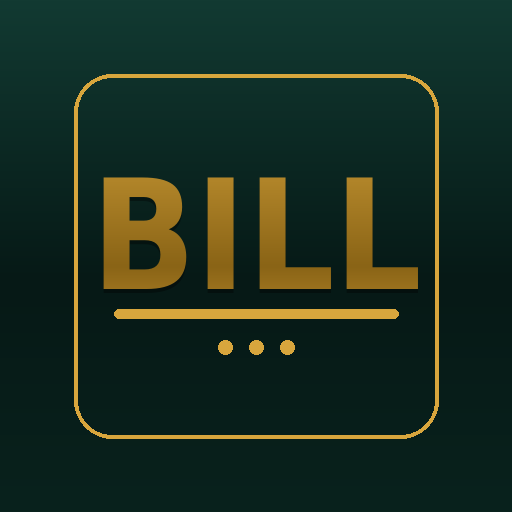
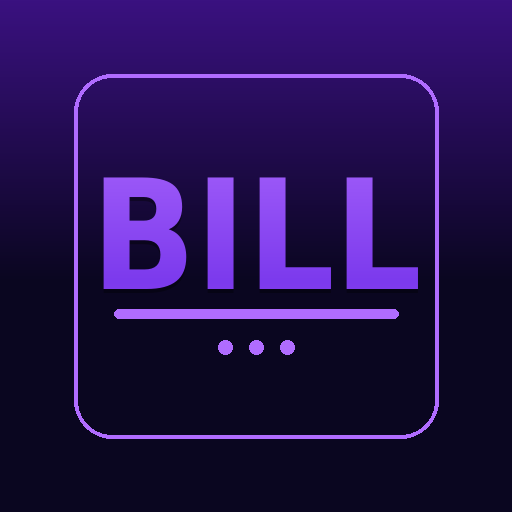
Add files via upload

diff --git a/index.html b/index.html
@@ -2,7 +2,20 @@
 <!--
 =============================================================
   ANKUSH KIRANA — Billing PWA
-  Version : v5.1  (02-09-2026)
+  Version : v6.0  (02-09-2026)
+  Author  : Ankush New Vision
+-------------------------------------------------------------
+  FILES NEEDED IN THE REPO (same folder)
+    index.html  manifest.json  sw.js  icon-192.png  icon-512.png
+-------------------------------------------------------------
+  CHANGELOG
+  v6.0 - New look across the whole app: violet on deep indigo.
+         Billing, Products, Customers, Purchase, Poster, Dashboard,
+         nav, sheets, dropdowns, toasts — all retuned.
+         Kept on purpose: the green WhatsApp button, the red delete,
+         the green "cheapest rate" marker, and the poster themes
+         (those go to customers, not into the app's look).
+  v5.1  (02-09-2026)
   Author  : Ankush New Vision
 -------------------------------------------------------------
   FILES NEEDED IN THE REPO (same folder)
@@ -197,7 +210,7 @@
 <head>
 <meta charset="utf-8">
 <meta name="viewport" content="width=device-width,initial-scale=1,viewport-fit=cover">
-<meta name="theme-color" content="#08201C">
+<meta name="theme-color" content="#150B33">
 <title>BILL — Ankush Kirana</title>
 <link rel="preconnect" href="https://fonts.googleapis.com">
 <link rel="preconnect" href="https://fonts.gstatic.com" crossorigin>
@@ -212,10 +225,10 @@
 <style>
 :root{
   color-scheme:dark;
-  --ink:#08201C; --ink2:#0C2A24; --ink3:#113831;
-  --brass:#D8A63D; --brass-lt:#F7E2A6; --brass-dk:#8A6416;
-  --text:#EAF4F0; --dim:#8FB0A7;
-  --line:rgba(216,166,61,.22);
+  --ink:#150B33; --ink2:#1A0F3C; --ink3:#221450;
+  --brass:#B06CFF; --brass-lt:#DCC9FF; --brass-dk:#7C3AED;
+  --text:#F2ECFF; --dim:#9C8FC7;
+  --line:rgba(176,108,255,.26);
   --danger:#E2705A;
   --f-disp:'Khand',"Segoe UI",system-ui,sans-serif;
   --f-body:'Mukta',system-ui,-apple-system,sans-serif;
@@ -224,8 +237,8 @@
 html,body{margin:0;padding:0}
 body{
   background:
-    radial-gradient(900px 400px at 50% -10%, #14403709, transparent),
-    linear-gradient(180deg,#08201C,#061916 60%,#08201C);
+    radial-gradient(900px 420px at 50% -10%, #7C3AED22, transparent),
+    linear-gradient(180deg,#150B33,#0A0620 60%,#0A0620);
   color:var(--text);font-family:var(--f-body);font-size:15px;
   min-height:100dvh;padding-bottom:78px;
 }
@@ -236,14 +249,14 @@ input,select,textarea,button{font-family:var(--f-body);font-size:15px}
 /* ---------- header ---------- */
 header{
   position:sticky;top:0;z-index:20;padding:10px 12px 12px;
-  background:linear-gradient(180deg,#0A2620 70%,rgba(8,32,28,.86));
+  background:linear-gradient(180deg,#150B33 70%,rgba(21,11,51,.86));
   backdrop-filter:blur(8px);border-bottom:1px solid var(--line);
 }
 .plate{
   display:flex;align-items:center;gap:10px;padding:9px 12px;border-radius:12px;
-  background:linear-gradient(180deg,#F7E2A6 0%,#D8A63D 16%,#A6791D 52%,#D8A63D 76%,#F2D68F 100%);
-  box-shadow:inset 0 1px 0 rgba(255,255,255,.8),inset 0 -2px 3px rgba(0,0,0,.35),0 6px 16px rgba(0,0,0,.4);
-  color:#2A1D02;position:relative;overflow:hidden;
+  background:linear-gradient(165deg,#4C1D95 0%,#6D28D9 45%,#3A1180 100%);
+  box-shadow:inset 0 1px 0 rgba(255,255,255,.22),0 8px 20px rgba(0,0,0,.45);
+  color:#FFFFFF;position:relative;overflow:hidden;border:1px solid rgba(176,108,255,.5);
 }
 .plate::after{
   content:"";position:absolute;inset:0;transform:translateX(-120%) skewX(-18deg);
@@ -253,7 +266,7 @@ header{
 @keyframes sheen{0%,72%{transform:translateX(-140%) skewX(-18deg)}88%,100%{transform:translateX(320%) skewX(-18deg)}}
 .plate .mark{
   width:34px;height:34px;border-radius:9px;flex:0 0 auto;display:grid;place-items:center;
-  background:linear-gradient(180deg,#123A32,#08201C);color:var(--brass-lt);
+  background:linear-gradient(180deg,#B06CFF,#7C3AED);color:#1E1140;
   font-family:var(--f-disp);font-size:19px;box-shadow:inset 0 1px 0 rgba(255,255,255,.15);
 }
 .plate h1{font-size:21px;line-height:1;letter-spacing:1.2px}
@@ -281,29 +294,29 @@ main{padding:12px 12px 8px;max-width:640px;margin:0 auto}
 label{display:block;font-size:11px;letter-spacing:.8px;text-transform:uppercase;color:var(--dim);margin:0 0 4px 2px}
 input,select,textarea{
   width:100%;padding:11px 12px;border-radius:10px;border:1px solid rgba(216,166,61,.25);
-  background:#071C18;color:var(--text);outline:none;
+  background:#12082C;color:var(--text);outline:none;
 }
-input:focus,select:focus,textarea:focus{border-color:var(--brass);box-shadow:0 0 0 3px rgba(216,166,61,.14)}
+input:focus,select:focus,textarea:focus{border-color:var(--brass);box-shadow:0 0 0 3px rgba(176,108,255,.18)}
 textarea{min-height:120px;resize:vertical;line-height:1.5}
 select{appearance:none;background-image:linear-gradient(45deg,transparent 50%,var(--brass) 50%),linear-gradient(135deg,var(--brass) 50%,transparent 50%);
   background-position:calc(100% - 17px) 19px,calc(100% - 12px) 19px;background-size:5px 5px,5px 5px;background-repeat:no-repeat}
 
-option{background:#0B2A24;color:#EAF4F0}
+option{background:#221450;color:#F2ECFF}
 .themes{display:grid;grid-template-columns:repeat(3,1fr);gap:8px}
-.themes button{padding:0;overflow:hidden;border:1px solid var(--line);background:#0B2A24;
+.themes button{padding:0;overflow:hidden;border:1px solid var(--line);background:#221450;
   color:var(--dim);font-size:11.5px;font-weight:600;border-radius:11px;display:block;text-align:center}
 .themes button i{display:block;height:34px;border-radius:10px 10px 0 0}
 .themes button span{display:block;padding:6px 2px}
-.themes button.on{border-color:var(--brass);color:var(--brass-lt);box-shadow:0 0 0 2px rgba(216,166,61,.25)}
+.themes button.on{border-color:var(--brass);color:var(--brass-lt);box-shadow:0 0 0 2px rgba(176,108,255,.3)}
 
 /* ---------- buttons ---------- */
 button{border:0;border-radius:11px;padding:12px 14px;font-weight:600;cursor:pointer}
-.btn{background:#12332C;color:var(--text);border:1px solid var(--line)}
+.btn{background:#221450;color:var(--text);border:1px solid var(--line)}
 .btn:active{transform:translateY(1px)}
 .btn-gold{
-  color:#241800;
-  background:linear-gradient(180deg,#F7E2A6,#D8A63D 45%,#B0821F 55%,#E7C877);
-  box-shadow:inset 0 1px 0 rgba(255,255,255,.7),inset 0 -2px 2px rgba(0,0,0,.3),0 4px 12px rgba(0,0,0,.35);
+  color:#FFFFFF;
+  background:linear-gradient(160deg,#8B5CF6,#7C3AED 55%,#6D28D9);
+  box-shadow:inset 0 1px 0 rgba(255,255,255,.28),0 5px 14px rgba(0,0,0,.4);
 }
 .btn-wa{background:linear-gradient(180deg,#3FCF6B,#1E9E4B 55%,#37C063);color:#04240F;
   box-shadow:inset 0 1px 0 rgba(255,255,255,.5),0 4px 12px rgba(0,0,0,.35)}
@@ -315,7 +328,7 @@ button{border:0;border-radius:11px;padding:12px 14px;font-weight:600;cursor:poin
 
 /* ---------- bill items ---------- */
 .item{display:grid;grid-template-columns:1fr auto auto;gap:8px;align-items:center;
-  padding:9px 0;border-bottom:1px dashed rgba(216,166,61,.16)}
+  padding:9px 0;border-bottom:1px dashed rgba(176,108,255,.2)}
 .item:last-child{border-bottom:0}
 .item .nm{font-weight:600;line-height:1.25}
 .item .sub{font-size:12px;color:var(--dim)}
@@ -324,9 +337,9 @@ button{border:0;border-radius:11px;padding:12px 14px;font-weight:600;cursor:poin
 .totrow b{color:var(--text);font-weight:600}
 .grand{
   margin-top:10px;padding:14px 16px;border-radius:13px;position:relative;overflow:hidden;
-  background:linear-gradient(180deg,#F7E2A6 0%,#D8A63D 15%,#9E7318 52%,#D8A63D 78%,#F5DC98 100%);
-  box-shadow:inset 0 2px 0 rgba(255,255,255,.85),inset 0 -3px 4px rgba(0,0,0,.4),0 8px 22px rgba(0,0,0,.45);
-  color:#231701;display:flex;align-items:baseline;justify-content:space-between;
+  background:linear-gradient(160deg,#8B5CF6,#7C3AED 55%,#6D28D9);
+  box-shadow:inset 0 1px 0 rgba(255,255,255,.3),0 8px 22px rgba(0,0,0,.45);
+  color:#FFFFFF;display:flex;align-items:baseline;justify-content:space-between;
 }
 .grand::after{content:"";position:absolute;inset:0;width:40%;transform:translateX(-140%) skewX(-18deg);
   background:linear-gradient(90deg,transparent,rgba(255,255,255,.6),transparent);animation:sheen 7s ease-in-out infinite}
@@ -334,12 +347,12 @@ button{border:0;border-radius:11px;padding:12px 14px;font-weight:600;cursor:poin
 .grand strong{font-family:var(--f-disp);font-size:32px;line-height:1}
 
 /* ---------- lists ---------- */
-.lrow{display:flex;align-items:center;gap:10px;padding:10px 0;border-bottom:1px solid rgba(216,166,61,.12)}
+.lrow{display:flex;align-items:center;gap:10px;padding:10px 0;border-bottom:1px solid rgba(176,108,255,.16)}
 .lrow:last-child{border-bottom:0}
 .lrow .main{flex:1;min-width:0}
 .lrow .main b{display:block;font-weight:600;white-space:nowrap;overflow:hidden;text-overflow:ellipsis}
 .lrow .main small{color:var(--dim);font-size:12px}
-.tag{font-size:11px;padding:3px 7px;border-radius:6px;background:rgba(216,166,61,.14);color:var(--brass);white-space:nowrap}
+.tag{font-size:11px;padding:3px 7px;border-radius:6px;background:rgba(176,108,255,.18);color:var(--brass);white-space:nowrap}
 .empty{text-align:center;color:var(--dim);padding:22px 10px;font-size:14px;line-height:1.6}
 .empty b{display:block;color:var(--brass);font-family:var(--f-disp);font-size:17px;letter-spacing:1px;margin-bottom:4px}
 
@@ -349,47 +362,47 @@ button{border:0;border-radius:11px;padding:12px 14px;font-weight:600;cursor:poin
   display:flex;flex-direction:column;justify-content:space-between}
 .tile::after{content:"";position:absolute;inset:0;width:42%;transform:translateX(-150%) skewX(-18deg);
   background:linear-gradient(90deg,transparent,rgba(255,255,255,.45),transparent);animation:sheen 9s ease-in-out infinite}
-.tile.gold{background:linear-gradient(180deg,#F7E2A6 0%,#D8A63D 14%,#A2751A 54%,#D8A63D 80%,#F3D894 100%);
-  color:#251900;box-shadow:inset 0 1px 0 rgba(255,255,255,.8),inset 0 -2px 3px rgba(0,0,0,.35),0 6px 16px rgba(0,0,0,.4)}
-.tile.green{background:linear-gradient(180deg,#2C6F60 0%,#1A4A40 16%,#0B2C26 55%,#1A4A40 82%,#2E7365 100%);
-  color:var(--brass-lt);box-shadow:inset 0 1px 0 rgba(255,255,255,.18),inset 0 -2px 3px rgba(0,0,0,.5),0 6px 16px rgba(0,0,0,.4)}
+.tile.gold{background:linear-gradient(160deg,#7C3AED,#5B21B6);
+  color:#FFFFFF;box-shadow:inset 0 1px 0 rgba(255,255,255,.25),0 6px 16px rgba(0,0,0,.4)}
+.tile.green{background:linear-gradient(160deg,#A855F7,#7E22CE);
+  color:#FFFFFF;box-shadow:inset 0 1px 0 rgba(255,255,255,.25),0 6px 16px rgba(0,0,0,.4)}
 .tile .k{font-size:11px;letter-spacing:1.4px;text-transform:uppercase;opacity:.75;font-weight:600}
 .tile .v{font-family:var(--f-disp);font-size:27px;line-height:1}
 .tile .s{font-size:11.5px;opacity:.7}
 .chart{display:flex;align-items:flex-end;gap:6px;height:110px;padding-top:6px}
 .bar{flex:1;display:flex;flex-direction:column;justify-content:flex-end;align-items:center;gap:5px;height:100%}
 .bar i{display:block;width:100%;border-radius:5px 5px 2px 2px;min-height:3px;
-  background:linear-gradient(180deg,#F7E2A6,#D8A63D 40%,#8A6416);
-  box-shadow:inset 0 1px 0 rgba(255,255,255,.6)}
+  background:linear-gradient(180deg,#C4A0FF,#7C3AED);
+  box-shadow:inset 0 1px 0 rgba(255,255,255,.35)}
 .bar u{font-size:10px;color:var(--dim);text-decoration:none}
 .bar em{font-size:10px;color:var(--brass);font-style:normal}
 
 /* ---------- nav ---------- */
 nav{position:fixed;left:0;right:0;bottom:0;z-index:30;display:grid;grid-template-columns:repeat(6,1fr);
-  background:linear-gradient(180deg,#0B2A24,#061916);border-top:1px solid var(--line);
+  background:linear-gradient(180deg,#1A0F3C,#0A0620);border-top:1px solid var(--line);
   padding:7px 6px calc(7px + env(safe-area-inset-bottom));box-shadow:0 -6px 20px rgba(0,0,0,.45)}
 nav button{background:none;border:0;color:var(--dim);display:flex;flex-direction:column;align-items:center;
   gap:3px;padding:5px 0;font-size:8.4px;letter-spacing:0;font-weight:600;text-transform:uppercase}
 nav button svg{width:19px;height:19px;stroke:currentColor;fill:none;stroke-width:1.7;stroke-linecap:round;stroke-linejoin:round}
 nav button.on{color:var(--brass)}
-nav button.on svg{filter:drop-shadow(0 0 6px rgba(216,166,61,.5))}
+nav button.on svg{filter:drop-shadow(0 0 6px rgba(176,108,255,.55))}
 
 /* ---------- search dropdown ---------- */
 .sugwrap{position:relative}
 .sug{position:absolute;left:0;right:0;top:calc(100% + 6px);z-index:25;display:none;
-  background:linear-gradient(180deg,#154137,#0A2620);border:1px solid var(--brass);border-radius:12px;
+  background:linear-gradient(180deg,#2A1860,#150B33);border:1px solid var(--brass);border-radius:12px;
   overflow:auto;max-height:266px;overscroll-behavior:contain;touch-action:pan-y;
   -webkit-overflow-scrolling:touch;box-shadow:0 14px 34px rgba(0,0,0,.6)}
 .sug.on{display:block}
 .sug .r{display:flex;align-items:center;gap:9px;padding:10px 11px;cursor:pointer;
-  border-bottom:1px solid rgba(216,166,61,.14)}
+  border-bottom:1px solid rgba(176,108,255,.18)}
 .sug .r:last-child{border-bottom:0}
-.sug .r.sel{background:rgba(216,166,61,.18)}
+.sug .r.sel{background:rgba(176,108,255,.22)}
 .sug .sn{width:23px;height:23px;flex:0 0 auto;border-radius:7px;display:grid;place-items:center;
-  font-size:11px;font-weight:700;color:#241800;background:linear-gradient(180deg,#F7E2A6,#D8A63D 60%,#B0821F);
-  box-shadow:inset 0 1px 0 rgba(255,255,255,.6)}
+  font-size:11px;font-weight:700;color:#fff;background:linear-gradient(160deg,#8B5CF6,#6D28D9);
+  box-shadow:inset 0 1px 0 rgba(255,255,255,.3)}
 .sug .nm{flex:1;min-width:0;font-weight:600;white-space:normal;line-height:1.3;word-break:break-word}
-.sug i{font-style:normal;color:var(--brass-lt);background:rgba(216,166,61,.2);border-radius:3px}
+.sug i{font-style:normal;color:var(--brass-lt);background:rgba(176,108,255,.28);border-radius:3px}
 .sug .nm2{flex:1;min-width:0;display:flex;flex-direction:column;gap:2px}
 .sug .nm2 b{font-weight:600;white-space:normal;line-height:1.3;word-break:break-word}
 .sug .nm2 span{font-size:12.5px;color:var(--brass)}
@@ -404,11 +417,11 @@ nav button.on svg{filter:drop-shadow(0 0 6px rgba(216,166,61,.5))}
 .lrow.pend{gap:7px}
 .lrow.pend .main b{white-space:normal;font-size:14px;line-height:1.25}
 .btn-ico{padding:8px 9px;font-size:14px;border-radius:9px;line-height:1}
-.btn-later{background:#12332C;border:1px solid var(--line);color:var(--brass)}
+.btn-later{background:#221450;border:1px solid var(--line);color:var(--brass)}
 
 /* ---------- purchase chip ---------- */
 @keyframes blinkchip{
-  0%,100%{background:rgba(216,166,61,.20);color:var(--brass-lt);border-color:rgba(216,166,61,.5)}
+  0%,100%{background:rgba(176,108,255,.22);color:var(--brass-lt);border-color:rgba(176,108,255,.55)}
   50%{background:rgba(226,112,90,.30);color:#FFD9CF;border-color:rgba(226,112,90,.65)}
 }
 .purchip{margin-top:8px;padding:9px 11px;border-radius:10px;font-size:13px;font-weight:600;
@@ -416,7 +429,7 @@ nav button.on svg{filter:drop-shadow(0 0 6px rgba(216,166,61,.5))}
 .pubox{padding:2px 0 10px 8px;border-left:2px solid var(--line);margin:0 0 8px 6px}
 .pubox .pr{display:flex;justify-content:space-between;gap:8px;font-size:13px;padding:5px 0;color:var(--dim)}
 .pubox .pr b{color:var(--text);font-weight:600;flex:1;min-width:0}
-.hrow{display:flex;align-items:center;gap:8px;padding:9px 0;border-bottom:1px solid rgba(216,166,61,.12)}
+.hrow{display:flex;align-items:center;gap:8px;padding:9px 0;border-bottom:1px solid rgba(176,108,255,.16)}
 .hrow:last-child{border-bottom:0}
 .hrow .hr{font-family:var(--f-disp);font-size:19px;color:var(--brass-lt);min-width:78px}
 .hrow .hp{flex:1;min-width:0;font-size:13.5px;font-weight:600}
@@ -424,25 +437,23 @@ nav button.on svg{filter:drop-shadow(0 0 6px rgba(216,166,61,.5))}
 .hrow.low .hr{color:#7BE0A2}
 
 /* ---------- dashboard (violet) ---------- */
-#v-dash{--dv1:#0A2620;--dv2:#061916;--dhero:#0C2A24;--dcard:#12332C;--dline:rgba(216,166,61,.22);
-  --dink:#EAF4F0;--ddim:#8FB0A7;--dacc:#D8A63D}
+#v-dash{--dv1:#150B33;--dv2:#0A0620;--dhero:#3A1180;--dcard:#1E1140;--dline:#3A2A6B;
+  --dink:#F2ECFF;--ddim:#9C8FC7;--dacc:#B06CFF}
 #v-dash{margin:-12px -12px 0;padding:0 12px 8px;
   background:linear-gradient(180deg,var(--dv1),var(--dv2) 55%,var(--dv2))}
 .dhero{position:relative;margin:0 -12px 14px;padding:18px 20px 46px;overflow:hidden;
   background:var(--dhero);border-radius:0 0 6px 6px}
 .dhero::after{content:"";position:absolute;left:-15%;right:-15%;bottom:-150px;height:230px;
   border-radius:50% 50% 0 0;background:var(--dv1);border-top:3px solid var(--dacc)}
-.dhero h2{font-family:var(--f-disp);font-size:27px;letter-spacing:.5px;color:var(--brass-lt);margin:0}
-.dhero p{margin:4px 0 0;font-size:13.5px;color:#9CC0B5}
+.dhero h2{font-family:var(--f-disp);font-size:27px;letter-spacing:.5px;color:#fff;margin:0}
+.dhero p{margin:4px 0 0;font-size:13.5px;color:#C9B6F5}
 .dsec{font-family:var(--f-disp);font-size:19px;letter-spacing:1px;text-transform:uppercase;
   color:var(--dink);margin:14px 2px 9px}
 .dstat{border-radius:16px;padding:14px 12px;text-align:center}
-.dstat.a{color:#241800;
-  background:linear-gradient(180deg,#F7E2A6 0%,#D8A63D 16%,#A2751A 54%,#D8A63D 80%,#F3D894 100%);
-  box-shadow:inset 0 1px 0 rgba(255,255,255,.8),inset 0 -2px 3px rgba(0,0,0,.35),0 6px 16px rgba(0,0,0,.4)}
-.dstat.b{color:var(--brass-lt);
-  background:linear-gradient(180deg,#2C6F60 0%,#1A4A40 16%,#0B2C26 55%,#1A4A40 82%,#2E7365 100%);
-  box-shadow:inset 0 1px 0 rgba(255,255,255,.18),inset 0 -2px 3px rgba(0,0,0,.5),0 6px 16px rgba(0,0,0,.4)}
+.dstat.a{color:#fff;background:linear-gradient(160deg,#7C3AED,#5B21B6);
+  box-shadow:0 6px 18px rgba(0,0,0,.4)}
+.dstat.b{color:#fff;background:linear-gradient(160deg,#A855F7,#7E22CE);
+  box-shadow:0 6px 18px rgba(0,0,0,.4)}
 .dstat span{display:block;font-size:11.5px;letter-spacing:1.4px;opacity:.85;font-weight:600}
 .dstat b{display:block;font-family:var(--f-disp);font-size:34px;line-height:1.15;margin-top:4px}
 .dgrid{display:grid;grid-template-columns:repeat(3,1fr);gap:10px}
@@ -456,7 +467,7 @@ nav button.on svg{filter:drop-shadow(0 0 6px rgba(216,166,61,.5))}
 .drow{display:flex;align-items:center;gap:11px;padding:9px 0;border-bottom:1px solid var(--dline)}
 .drow:last-child{border-bottom:0}
 .drow .av{width:38px;height:38px;flex:0 0 auto;border-radius:50%;display:grid;place-items:center;
-  background:linear-gradient(180deg,#F7E2A6,#D8A63D);color:#241800;font-weight:700;font-size:16px}
+  background:linear-gradient(160deg,#B06CFF,#7C3AED);color:#fff;font-weight:700;font-size:16px}
 .drow .mn{flex:1;min-width:0}
 .drow .mn b{display:block;font-weight:600;font-size:14.5px;color:var(--dink);
   white-space:nowrap;overflow:hidden;text-overflow:ellipsis}
@@ -470,19 +481,19 @@ nav button.on svg{filter:drop-shadow(0 0 6px rgba(216,166,61,.5))}
 
 /* ---------- misc ---------- */
 .toast{position:fixed;left:50%;bottom:96px;transform:translate(-50%,20px);z-index:50;opacity:0;
-  background:linear-gradient(180deg,#F7E2A6,#D8A63D);color:#241800;padding:11px 18px;border-radius:11px;
+  background:linear-gradient(160deg,#8B5CF6,#6D28D9);color:#FFFFFF;padding:11px 18px;border-radius:11px;
   font-weight:600;box-shadow:0 8px 24px rgba(0,0,0,.5);transition:.22s;max-width:90vw;text-align:center}
 .toast.on{opacity:1;transform:translate(-50%,0)}
-.seg{display:flex;background:#071C18;border:1px solid var(--line);border-radius:10px;padding:3px;gap:3px}
+.seg{display:flex;background:#12082C;border:1px solid var(--line);border-radius:10px;padding:3px;gap:3px}
 .seg button{flex:1;padding:8px;border-radius:8px;background:transparent;color:var(--dim);font-size:13px}
-.seg button.on{background:linear-gradient(180deg,#F7E2A6,#D8A63D);color:#241800}
+.seg button.on{background:linear-gradient(160deg,#8B5CF6,#6D28D9);color:#fff}
 .sheet{position:fixed;inset:0;z-index:40;background:rgba(3,12,10,.72);display:none;align-items:flex-end}
 .sheet.on{display:flex}
-.sheet .inner{width:100%;max-width:640px;margin:0 auto;background:linear-gradient(180deg,#123831,#0A2620);
+.sheet .inner{width:100%;max-width:640px;margin:0 auto;background:linear-gradient(180deg,#221450,#150B33);
   border-radius:18px 18px 0 0;border-top:1px solid var(--line);padding:16px 14px calc(20px + env(safe-area-inset-bottom));
   max-height:88dvh;overflow:auto}
-.grip{width:42px;height:4px;border-radius:4px;background:rgba(216,166,61,.35);margin:0 auto 12px}
-.bill-preview{background:#071C18;border:1px solid var(--line);border-radius:12px;padding:14px;
+.grip{width:42px;height:4px;border-radius:4px;background:rgba(176,108,255,.4);margin:0 auto 12px}
+.bill-preview{background:#12082C;border:1px solid var(--line);border-radius:12px;padding:14px;
   font-size:13px;line-height:1.65;white-space:pre-wrap;word-break:break-word;max-height:44vh;overflow:auto}
 @media (prefers-reduced-motion:reduce){*{animation:none!important;transition:none!important}}
 </style>
@@ -1407,7 +1418,7 @@ function buildMsg(lang, bill){
 $('bPreview').onclick = ()=>{
   if(!cart.length){ toast('Bill is empty'); return; }
   $('sheetTtl').textContent = 'Message preview';
-  $('sheetBody').style.background = '#071C18';
+  $('sheetBody').style.background = '#12082C';
   $('sheetBody').textContent = buildMsg(S.lang);
   $('bWAdirect').style.display = 'none';
   $('pasteHint').style.display = 'none';
